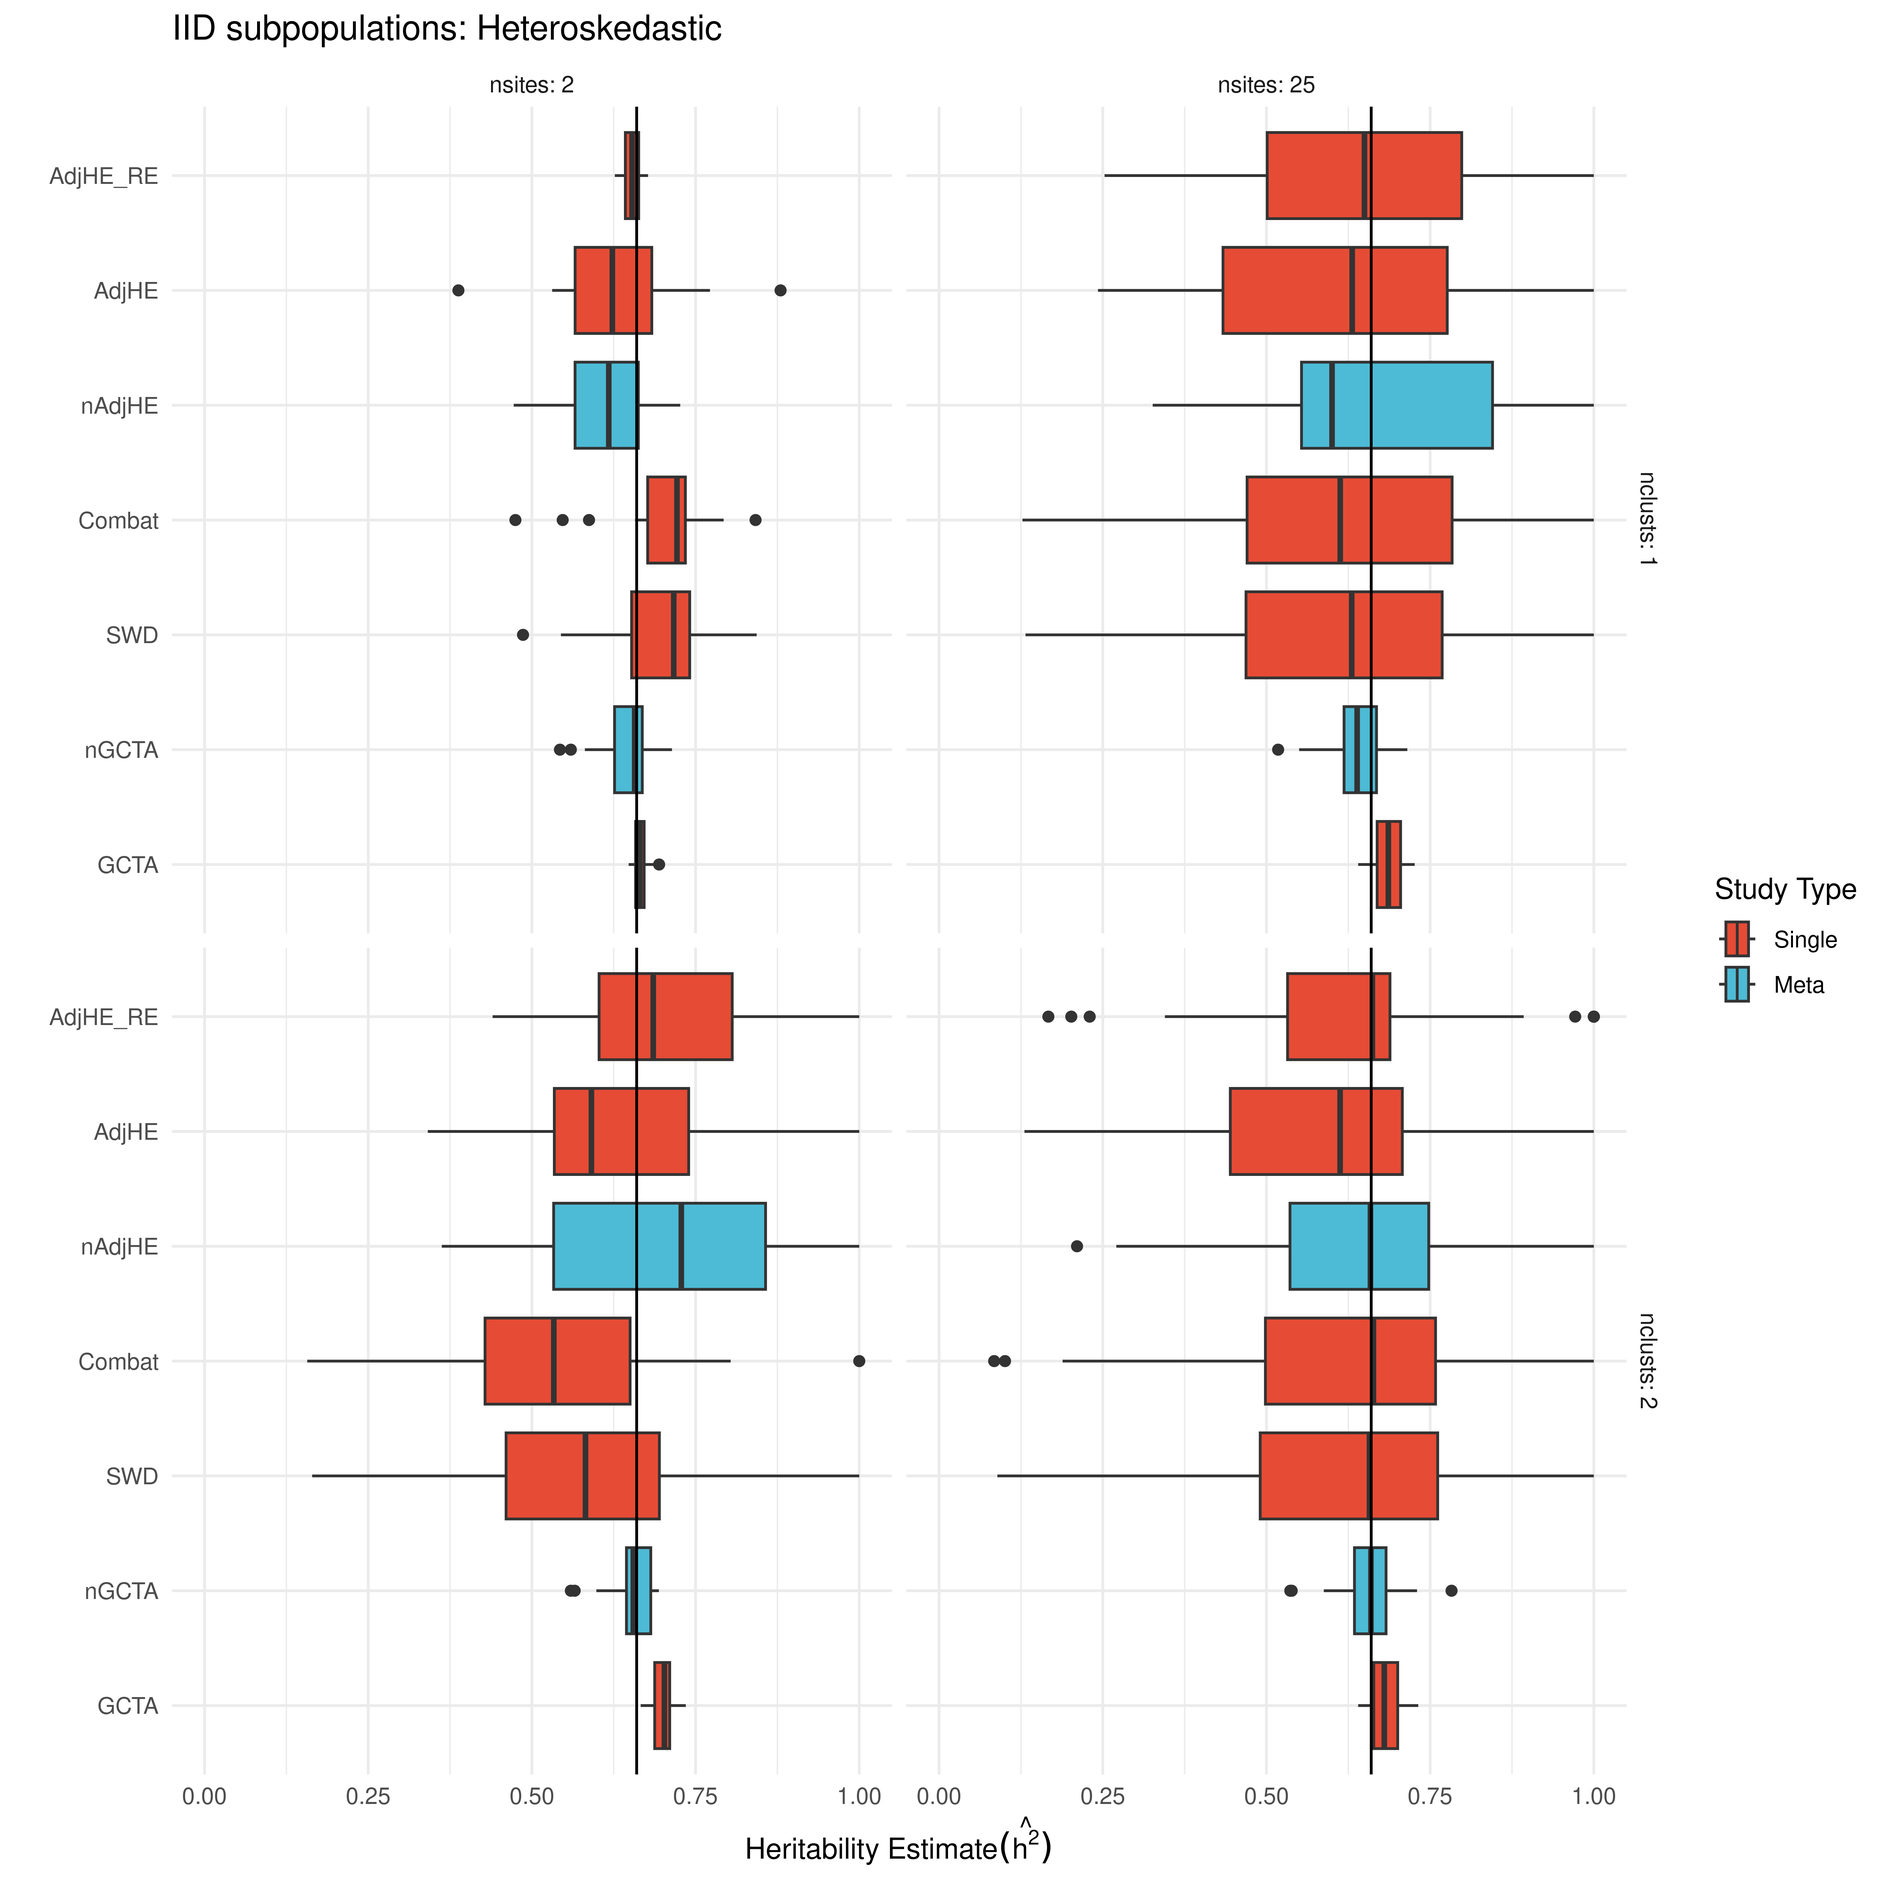
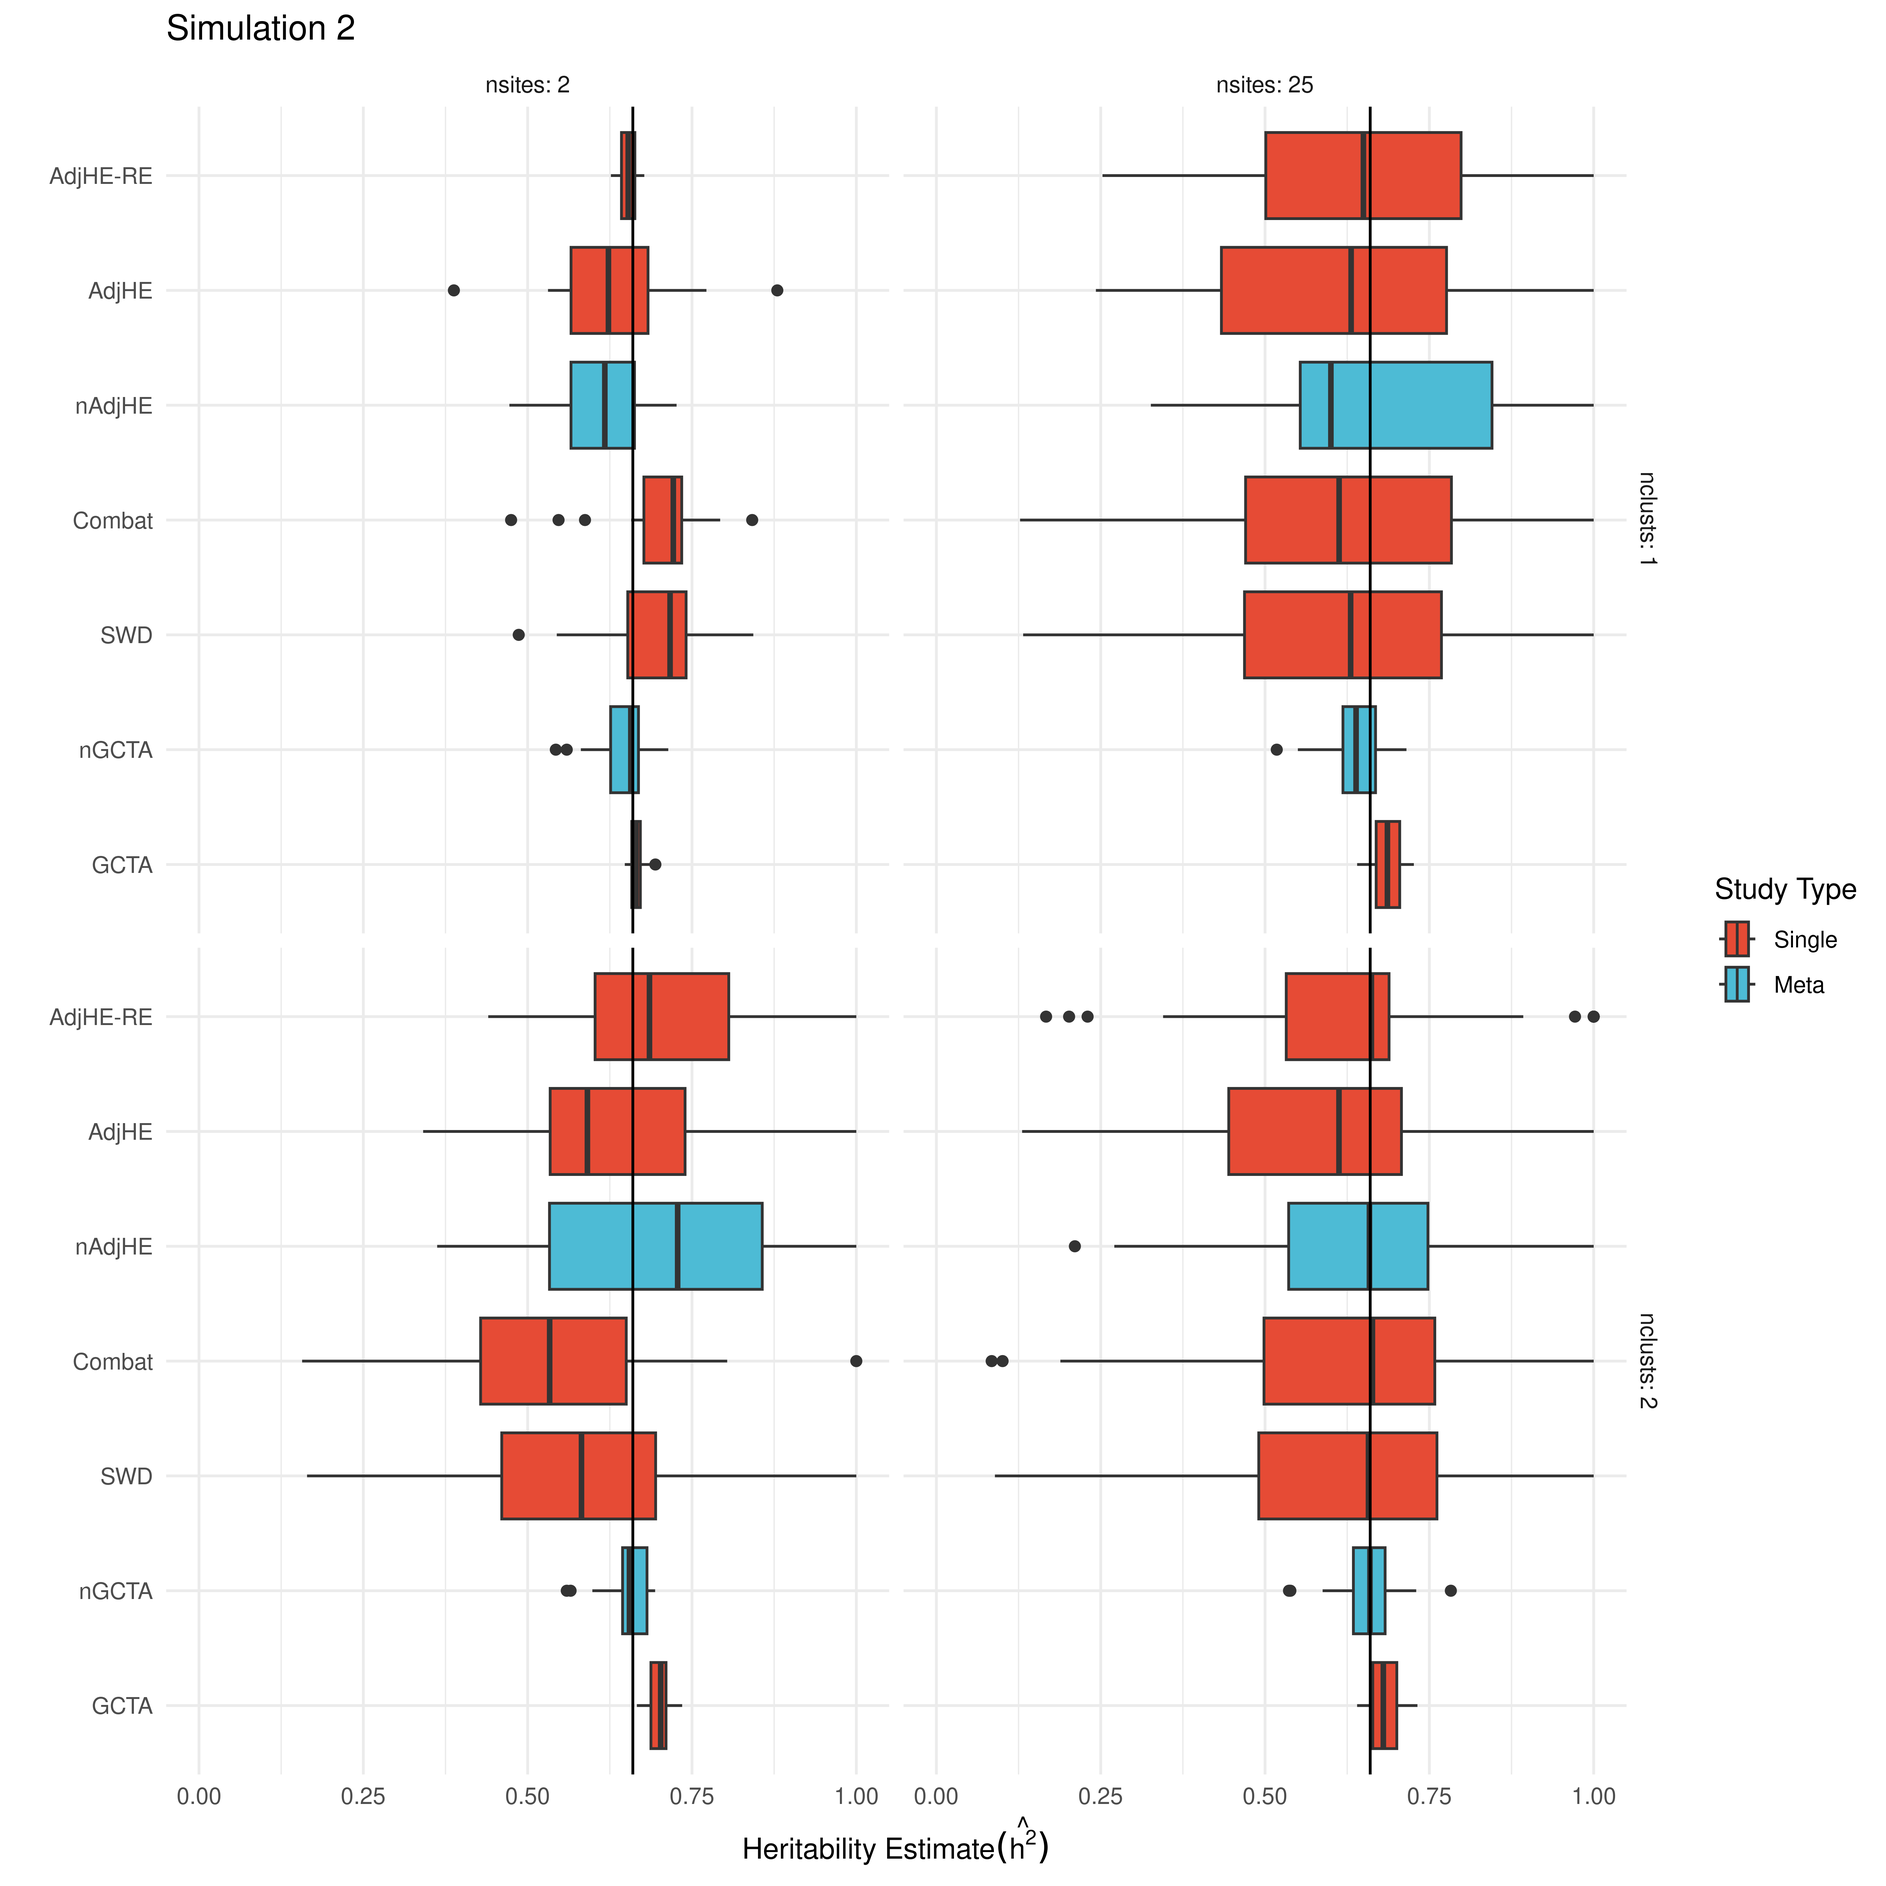
centered the simulated phenotype

diff --git a/Simulate/simulation_helpers/run_sims.py b/Simulate/simulation_helpers/run_sims.py
@@ -29,50 +29,61 @@ def sim_n_est(nsubjects = 1000, h2 = 0.5, nsites = 30,
     # Run through full simulation and estimation
     sim.full_sim(nsites= nsites, h2= h2, phens = phens, nclusts = nclusts, random_BS = random_BS)
 
-    ests = h2Estimation()
-    ests.df= sim.df
-    ests.GRM = sim.GRM
-    ests.mpheno = ["Y1"] 
-    
-    FE= ["Xc"]
-        
-    if nsites >1 :
-        FE += ["abcd_site"]
-    
-    logging.info(sim.df.columns.tolist())
 
-    full_results = pd.DataFrame({}, columns= ["Method", "Meta", "RV", "h2", "V(h2)", "time"])
-    # iterate over all combinations of Methods and Meta 
-    for (Met, M, rg) in itertools.product(["AdjHE", "GCTA"], [True, False], [None, "abcd_site"]):
+    if estimateHeritability is True : 
+        ests = h2Estimation()
+        ests.df= sim.df
+        ests.GRM = sim.GRM
+        ests.mpheno = ["Y1"] 
         
-        try :
-            r = ests.estimate(Method = Met, npc = [nnpc], fixed_effects= FE, mpheno =ests.mpheno[0],
-                        Naive = M, random_groups = rg)
-            result = pd.DataFrame({"Method" : Met,
-                                  "Meta" : M,
-                                  "RV" : rg,
-                                  "h2" : r["h2"][0],
-                                  "Var(h2)" : r["var(h2)"][0],
-                                   "time" : r["time"][0],
-                                  "sg" : sigma[0],
-                                  "ss" : sigma[1],
-                                  "se" : sigma[2],
-                                  "nsubjects" : nsubjects,
-                                  "nsites" : nsites,
-                                  "theta_alleles" : theta_alleles,
-                                   "nclusts" : nclusts,
-                                   "prop_causal" : prop_causal,
-                                   "nnpc" : nnpc,
-                                   "nSNPs" : nSNPs, 
-                                   "site_comp" : site_comp,
-                                   "dominance" : dominance,
-                                   "site_dep" : site_dep,
-                                   "site_het" : site_het}, index= [0])
-            full_results = pd.concat([full_results, result], ignore_index= True)
-        except TypeError :
-            pass
-        except np.linalg.LinAlgError :
-            pass
+        FE= ["Xc"]
+            
+        if nsites >1 :
+            FE += ["abcd_site"]
+        
+        logging.info(sim.df.columns.tolist())
+
+        full_results = pd.DataFrame({}, columns= ["Method", "Meta", "RV", "h2", "V(h2)", "time"])
+        # iterate over all combinations of Methods and Meta 
+        for (Met, M, rg) in itertools.product(["AdjHE", "GCTA"], [True, False], [None, "abcd_site"]):
+            
+            try :
+                r = ests.estimate(Method = Met, npc = [nnpc], fixed_effects= FE, mpheno =ests.mpheno[0],
+                            Naive = M, random_groups = rg)
+                result = pd.DataFrame({"Method" : Met,
+                                      "Meta" : M,
+                                      "RV" : rg,
+                                      "h2" : r["h2"][0],
+                                      "Var(h2)" : r["var(h2)"][0],
+                                       "time" : r["time"][0],
+                                      "sg" : sigma[0],
+                                      "ss" : sigma[1],
+                                      "se" : sigma[2],
+                                      "nsubjects" : nsubjects,
+                                      "nsites" : nsites,
+                                      "theta_alleles" : theta_alleles,
+                                       "nclusts" : nclusts,
+                                       "prop_causal" : prop_causal,
+                                       "nnpc" : nnpc,
+                                       "nSNPs" : nSNPs, 
+                                       "site_comp" : site_comp,
+                                       "dominance" : dominance,
+                                       "site_dep" : site_dep,
+                                       "site_het" : site_het}, index= [0])
+                full_results = pd.concat([full_results, result], ignore_index= True)
+            except TypeError :
+                pass
+            except np.linalg.LinAlgError :
+                pass
+    else :
+        logging.info("No variance component estimation")
+
+    if estimatePRS is True :
+
+
+        loggin.info("GWAS results are written to file.")
+    else :
+        loggin.info("No PRS estimate.")
 
         return full_results
         

diff --git a/Simulate/Simulate.py b/Simulate/Simulate.py
@@ -26,43 +26,46 @@ def main():
     print("Simulating with the following parameters:")
     print(args)
     
-    
-    sigmas = []
-    for sg, ss, se in itertools.product(args["sgs"], args["sss"], args["ses"]) :
-        if sg + ss + se == 1 :
-            if sg != 0 :
-                sigmas += [[sg, ss, se]]
-            elif (sg ==0) and (ss == 0) :
-                sigmas += [[sg, ss, se]]
-    
-    
-    # run experiments
-    df = sim_experiment(nsubjectss = args["nsubjectss"], 
-                  sigmas = sigmas,
-                  site_comps = args["site_comps"],
-                  nsites = args["nsites"],
-                  theta_alleless = args["theta_alleless"],
-                  nclustss = args["nclustss"],
-                  dominances= args["dominances"],
-                  prop_causals= args["prop_causals"],
-                  site_deps=args["site_deps"] ,
-                  nnpcs = args["nnpcs"],
-                  nSNPss= args["nSNPss"],
-                  phenss= args["phenss"],
-                  reps = args["reps"],
-                  site_het = args["site_het"],
-                  clusters_differ=True,
-                  cov_effect=True,
-                  ortho_cov=True,
-                  random_BS=args["random_BS"])
-    
-    
-    # python program to check if a path exists
-    #if path doesn’t exist we create a new path
-    os.makedirs(os.path.dirname(args["out"]), exist_ok = True)
-    
-    # write to out
-    df.to_csv(args["out"] + ".csv", 
-              header=  True, index= False)
+    if args["EstimateHeritabiliy"] is True : 
+        sigmas = []
+        for sg, ss, se in itertools.product(args["sgs"], args["sss"], args["ses"]) :
+            if sg + ss + se == 1 :
+                if sg != 0 :
+                    sigmas += [[sg, ss, se]]
+                elif (sg ==0) and (ss == 0) :
+                    sigmas += [[sg, ss, se]]
+        
+        
+        # run experiments
+        df = sim_experiment(nsubjectss = args["nsubjectss"], 
+                      sigmas = sigmas,
+                      site_comps = args["site_comps"],
+                      nsites = args["nsites"],
+                      theta_alleless = args["theta_alleless"],
+                      nclustss = args["nclustss"],
+                      dominances= args["dominances"],
+                      prop_causals= args["prop_causals"],
+                      site_deps=args["site_deps"] ,
+                      nnpcs = args["nnpcs"],
+                      nSNPss= args["nSNPss"],
+                      phenss= args["phenss"],
+                      reps = args["reps"],
+                      site_het = args["site_het"],
+                      clusters_differ=True,
+                      cov_effect=True,
+                      ortho_cov=True,
+                      random_BS=args["random_BS"])
+        
+        
+        # python program to check if a path exists
+        #if path doesn’t exist we create a new path
+        os.makedirs(os.path.dirname(args["out"]), exist_ok = True)
+        
+        # write to out
+        df.to_csv(args["out"] + ".csv", 
+                  header=  True, index= False)
+
+    elif args["GWAS"] is True :
+
     
     

diff --git a/Simulate/parser.py b/Simulate/parser.py
@@ -1,0 +1,61 @@
+#! /usr/bin/env python3
+
+"""
+AdjHE command line argument parser
+Christian Coffman: coffm049@umn.edu
+Created 2022-05-26
+Last Updated 2022-06-06
+"""
+
+##############################################################
+# This is a helper tool for the AdjHE estimator that takes 
+# command line arguments and converts them for use in AdjHE 
+# heritability estimation
+##############################################################
+
+import argparse
+import json 
+from functions.Data_input.types_n_valids import readable_file_or_none, readable_json
+
+#%%
+
+def get_args() :
+    """
+    Collects user input from command line and returns them for running with Estimate.
+
+    Returns
+    -------
+    dictionary of user arguments from command line
+
+    """
+    # Create arg parser
+    parser = argparse.ArgumentParser(
+        prog='Running adjusted HE regression',description="This program gives estimation in formula fashion." 
+        "Make sure you have enough memory to store GRM matrix in python.")
+    
+        
+    # accept a file with all arguments
+    parser.add_argument("--argfile", 
+                        # type=readable_json,
+                        metavar= "ARGFILE_FILE_PATH", 
+                        help="Filename to be passed containing all information for simulations", 
+                        default=None)    
+    parser.add_argument("--out", 
+                        metavar= "OUT_FILE_PATH", 
+                        help="Filename to be save results.", 
+                        default=None)
+    # boolean specifying where to do heritability estimate 
+    parser.add_argument("--estimate",
+                        metavar= "ESTIMATE",
+                        help="Boolean specifying whether to do heritability estimate",
+                        default=False)
+
+    
+    # return the arguments as a dictionary
+    args = vars(parser.parse_args())
+    with open(args['argfile']) as f:
+        args2 = json.load(f)
+        
+    args2["out"] = args["out"]
+
+    return args2

diff --git a/Estimate/prs/gwaPRS.py b/Estimate/prs/gwaPRS.py
@@ -1,0 +1,39 @@
+from ctypes import CDLL 
+import numpy as np
+import pandas as pd
+import matplotlib.pyplot as plt
+import seaborn as sns
+import statsmodels.api as sm
+from xarray import DataArray
+import pandas_plink as pdplink
+import os
+from Simulate.simulation_helpers.Sim_generator import pheno_simulator
+from Simulate.summarizers.genotype_viz import plotClusters
+
+nSNPs = 1000
+nsubjects = 500
+nclusts = 1
+nphenos = 2
+shared = 0.5
+prop_causal = [0.25, 0.25]
+theta_alleles = [0.95, 0.25]
+h2Hom =0.8
+# Add this for transfer learning 
+h2Het = [0.1, 0.1]
+
+rng = np.random.default_rng(12)
+nclusts = 2 
+
+
+sim = pheno_simulator(nsubjects = nsubjects, nSNPs = nSNPs)
+sim.sim_sites()
+sim.sim_pops(nclusts = nclusts, theta_alleles = theta_alleles, shared = shared)
+sim.sim_genos()
+sim.sim_pheno(h2Hom =h2Hom, h2Het = h2Het, nphenos = nphenos, prop_causal = prop_causal, alpha =-1)
+# Subtract the mean from every column starting with Y and store them in the dataframe
+sim.df.iloc[:,30:(30+nphenos)] = sim.df.filter(regex='^Y') - sim.df.filter(regex= "^Y").mean()
+
+sim.save_plink("test2")
+sim.fitGWAS(prefix = "test2")
+
+

diff --git a/Simulate/simulation_helpers/pheno.py b/Simulate/simulation_helpers/pheno.py
@@ -97,5 +97,7 @@ def sim_pheno(rng, genotypes, df, h2Hom, h2Het, alpha = -1, phenoname = "Y0", ca
     df["Covar_contrib"] = Beta_c * df["Xc"]
     df[["Covar_contrib", "homo_contrib", "cluster_contrib", "errors"]] =df[["Covar_contrib", "homo_contrib", "cluster_contrib", "errors"]]- df[["Covar_contrib", "homo_contrib", "cluster_contrib", "errors"]].mean()  
     df[str(phenoname)] = df[["Covar_contrib", "homo_contrib", "cluster_contrib", "errors"]].sum(axis = 1)
+    df[str(phenoname)] = df[str(phenoname)] - df[str(phenoname)].mean()
+
 
     return df, causals, homo_eff, cluster_eff 

diff --git a/Simulate/simulation_helpers/Sim_generator.py b/Simulate/simulation_helpers/Sim_generator.py
@@ -18,6 +18,7 @@ from Simulate.simulation_helpers.clusters import sim_pop_alleles, assign_cluster
 from Simulate.simulation_helpers.genos import sim_genos
 from Simulate.simulation_helpers.pheno import sim_pheno
 from Simulate.simulation_helpers.plink_pheno import sim_plink_pheno
+from Estimate.esimators.gwaPRS import fitPlink2GWAS
 
 
 class pheno_simulator():

diff --git a/Estimate/estimators/gwaPRS.py b/Estimate/estimators/gwaPRS.py
@@ -1,0 +1,12 @@
+import subprocess
+
+
+def fitPlink2GWAS(prefix):
+
+    command = f"plink2 --bfile {prefix} --glm --pheno {prefix}.pheno --covar {prefix}.covar"
+
+    process = subprocess.Popen(command.split(), stdout=subprocess.PIPE)
+    
+    pass
+
+
